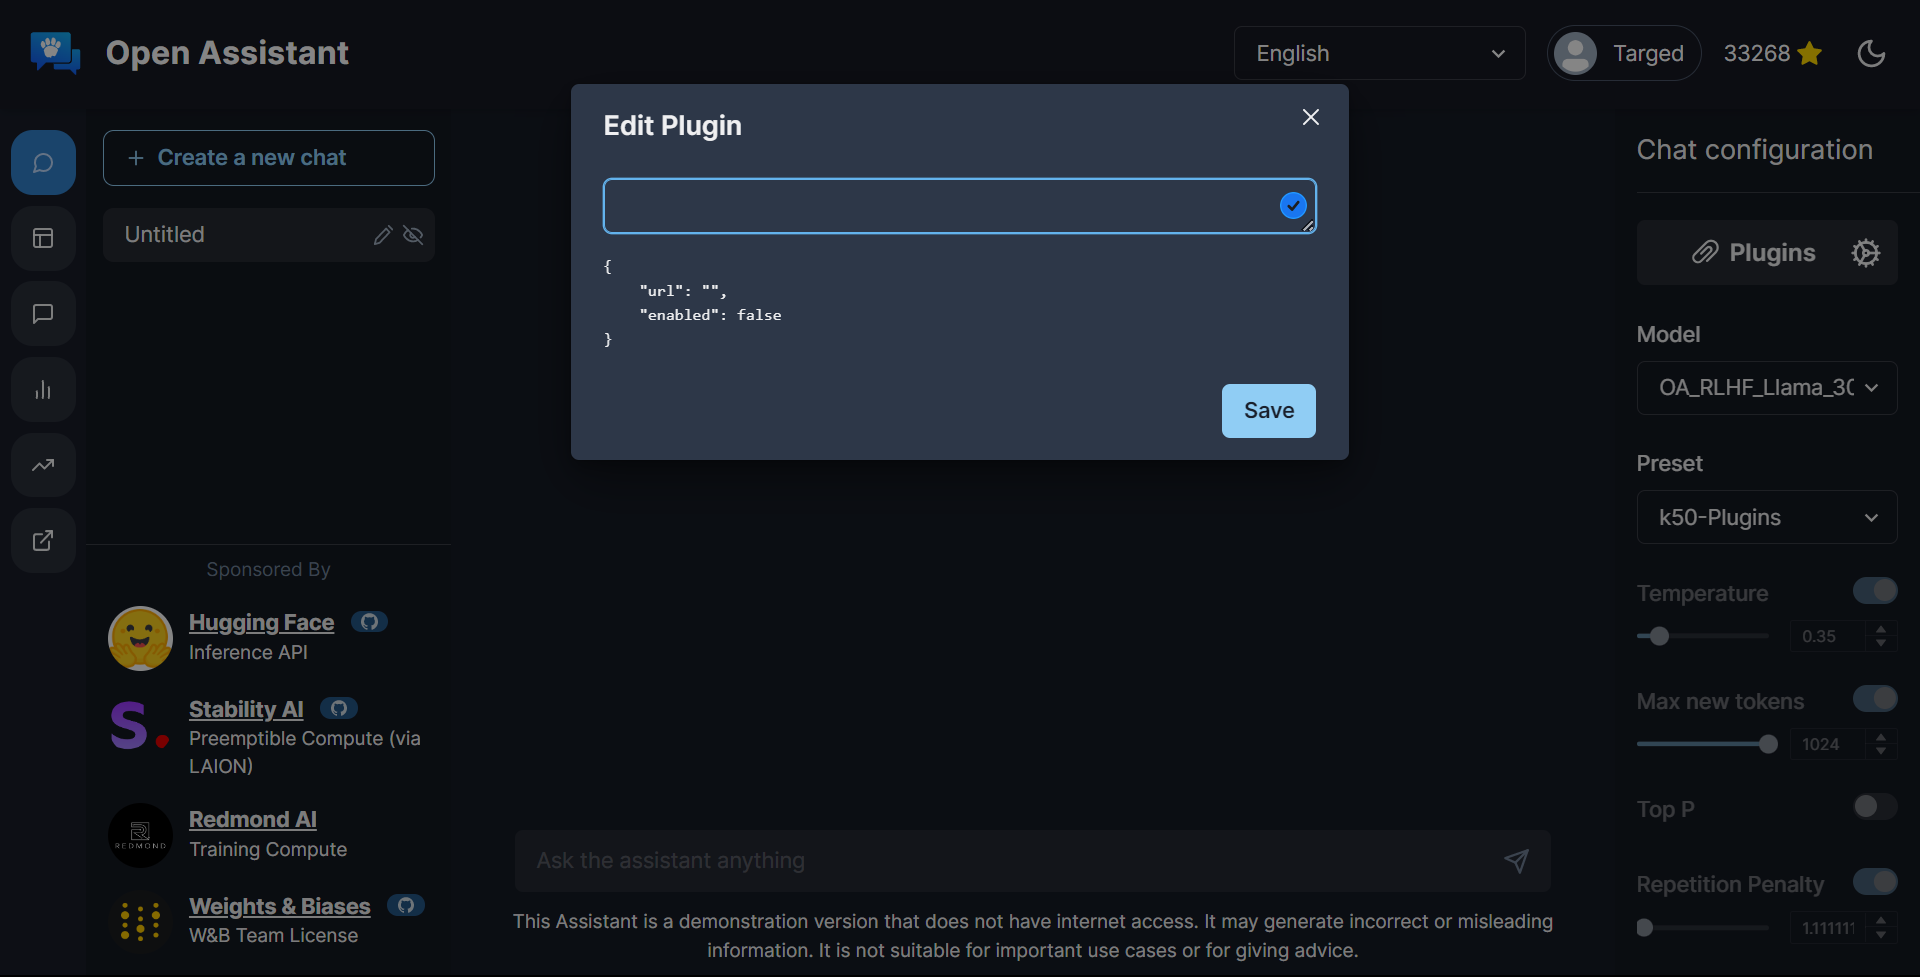
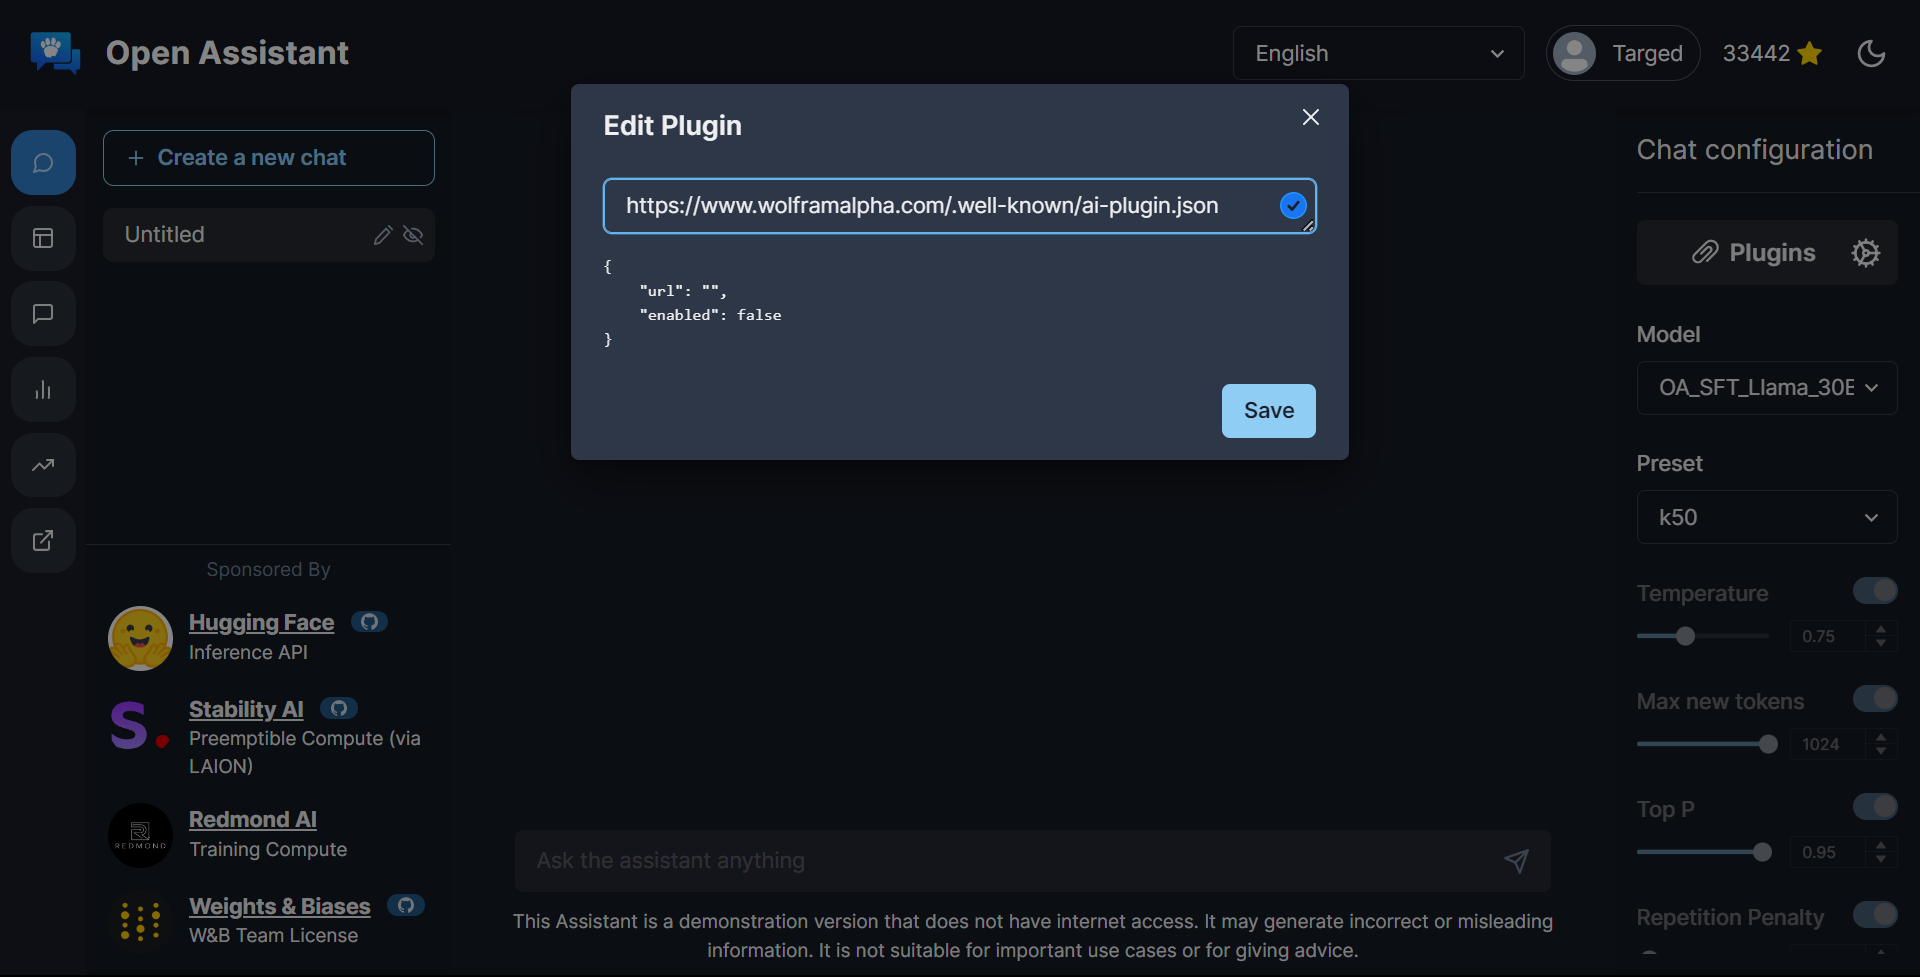
Updated screenshot

diff --git a/README.md b/README.md
@@ -89,7 +89,7 @@ ChatGPT-Plugins is a GitHub repository that serves as a comprehensive list of pl
 
 ## How to use with Open Assistant
 
-On a new chat, add a new plugin and paste the url for the plugin you want to use.
+Paste the url for the plugin you want to use from the links above and click save.
 ![App Screenshot](https://cdn.jsdelivr.net/gh/targed/ChatGPT-Plugins@main/OA-Plugins.png)
 
 ## Plugin Sites
